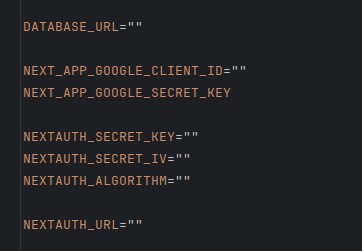
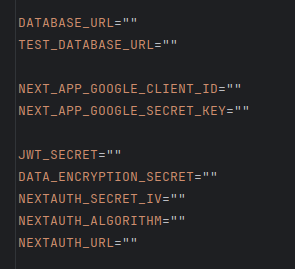
docs: updated getting started section

diff --git a/README.md b/README.md
@@ -71,25 +71,17 @@ NEXT_APP_GOOGLE_CLIENT_ID and NEXT_APP_GOOGLE_SECRET_KEY environment variable
 - NEXT_APP_GOOGLE_SECRET_KEY: secret key
 - copy and paste it in the environment variable
 
-NEXTAUTH_SECRET_KEY environment variable
+JWT_SECRET, DATA_ENCRYPTION_SECRET, NEXTAUTH_SECRET_IV environment variable
 
-- This secret key needs to be generated
-- Generate a new secret key for Next and Prisma adapter
+- These secret keys need to be generated
 - Use the following command $ openssl rand -base64 32
 - that should then give you a string that is necessary for .env file
 - if you are using windows, make sure to use wsl
-- then place this in your environment variable file
-- NEXTAUTH_SECRET_KEY: key that was just generated
-
-NEXTAUTH_SECRET_IV environment variable
-
-- You need to generate a new Secret iv key for encrypting and decrypt purposes
-- To generate a new key run the following command $ openssl rand -base64 32
-- You can use the same key as the one above for local development
-- But, please don't use the same key when in production
-- if you are using windows, make sure to use wsl
-- then place this newly created secret in you .env file
-- NEXTAUTH_SECRET_IV: key that was just generated
+- once generated, place it in your environment variable file
+- you can use the same generated key for all the environment variable
+- during local development
+- But if this is going to production, please create different keys for each one
+- it will help improve security
 
 NEXTAUTH_ALGORITHM environment variable
 
@@ -142,7 +134,7 @@ But, strictly speaking, the setup process should be the same as Linux
 ### [Node Version Manager](#getting-started)
 
 - To install node version manager with curl, run the following command
-- $ curl -o- https://raw.githubusercontent.com/nvm-sh/nvm/v0.39.1/install.sh | bash
+- $ curl -o- https://raw.githubusercontent.com/nvm-sh/nvm/v0.40.1/install.sh | bash
 - then restart the terminal
 - to verify that it worked, run the following command
 - $ nvm --version
@@ -158,13 +150,15 @@ Commands that can be used with NVM:
 - nvm default 22: sets node version 22 as the default version
 - nvm list: will show you all node versions that you have on your system
 
+Note: To get the latest nvm script click [here](https://github.com/nvm-sh/nvm?tab=readme-ov-file#install--update-script)
+
 ### [pnpm Package Manager](#getting-started)
 
 To install pnpm run the following command: $ npm install -g pnpm
 
 Commands that can be used with PNPM:
 
-- pnpm run script: this will run the script that is defined in package.json, a script is the name of the script
+- pnpm script: this will run the script that is defined in package.json, a script is the name of the script
 - pnpm store prune: this will remove all node modules that are not attached to any projects if you delete node_modules and pnpm lock file runs this command after wards
 - pnpm install: install all packages from package.json
 - pnpm add package: adds the package that you want to install
